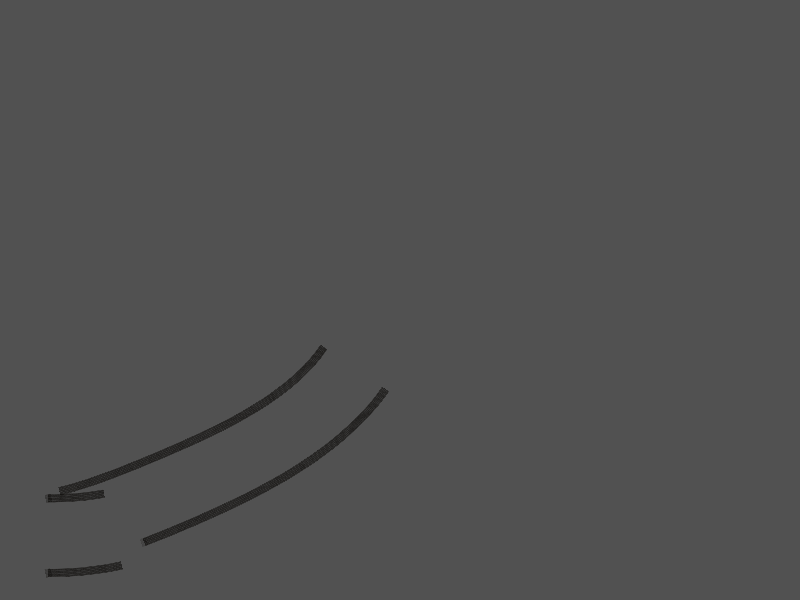
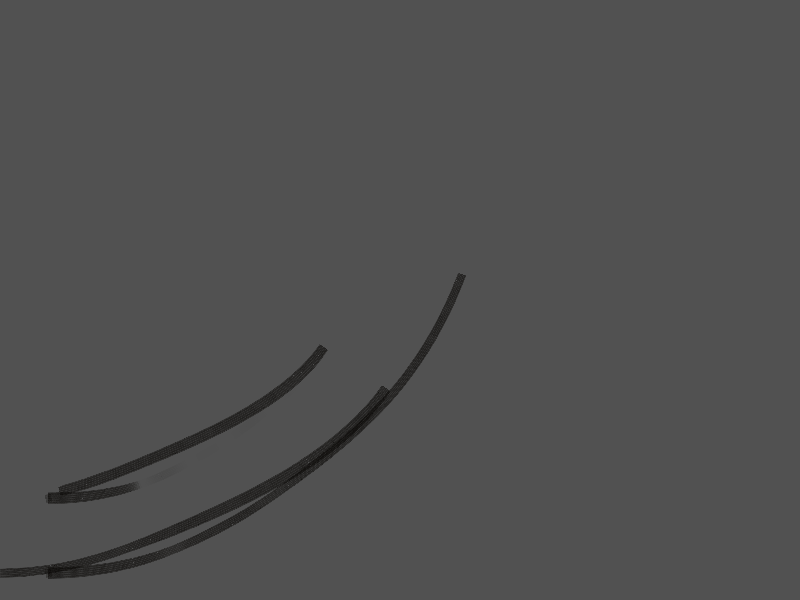
Make laboratory skid deposition continuous and state-dependent

diff --git a/research/scientific-rebuild/fast-vehicle-poc/variable-terrain/laboratory/tracks.js b/research/scientific-rebuild/fast-vehicle-poc/variable-terrain/laboratory/tracks.js
@@ -1,0 +1,75 @@
+// PERFORMANCE laboratory visual deposition; historical observatories remain unchanged.
+import {captureContacts} from '../../../procedural-terrain/src/contact-observation.js';
+export const DEPOSITION=Object.freeze({spacing:.04,width:.18,footprint:.12,minLoad:5,minSlip:.5,minWork:.5,
+ workPerArea:200,maxOpacity:.7,minOpacity:.035,maxJump:1,maxGap:.020001});
+export class Ring {
+ constructor(capacity){if(!(Number.isInteger(capacity)&&capacity>1))throw Error('Invalid history capacity');this.capacity=capacity;this.items=Array(capacity).fill(null);this.cursor=0;this.count=0;}
+ push(item){const i=this.cursor;this.items[i]=item;this.cursor=(i+1)%this.capacity;this.count=Math.min(this.count+1,this.capacity);return i;}
+ *values(){for(let n=0;n<this.count;n++)yield this.items[(this.cursor-this.count+n+this.capacity)%this.capacity];}
+ clear(){this.items.fill(null);this.cursor=this.count=0;}
+}
+const dist=(a,b)=>Math.hypot(a.x-b.x,a.y-b.y),lerp=(a,b,t)=>({x:a.x+(b.x-a.x)*t,y:a.y+(b.y-a.y)*t,z:a.z+(b.z-a.z)*t});
+export function depositionOpacity(work,area,load){return DEPOSITION.maxOpacity*(1-Math.exp(-Math.max(0,work)/(DEPOSITION.workPerArea*area)))*Math.min(1,Math.max(0,load)/250);}
+export class TireObservatory {
+ constructor({capacity=1024,pathCapacity=2048}={}){
+  this.capacity=capacity;this.marks=Array.from({length:4},()=>new Ring(capacity));this.paths=Array.from({length:4},()=>new Ring(pathCapacity));this.center=new Ring(pathCapacity);
+  this.events=new Uint32Array(4*capacity);this.revision=0;this.generation=0;this.latest=[];this.totalWork=[0,0,0,0];this.recent=[0,0,0,0];this.acceptedStages=0;this.acceptedTime=0;
+  this.pending=Array.from({length:4},()=>({}));this.lastTime=null;this.lastCenter=null;this.capture=captureContacts;
+ }
+ dirty(wheel,slot){this.events[this.revision%this.events.length]=wheel*this.capacity+slot;this.revision++;}
+ changesSince(revision){if(revision>this.revision||this.revision-revision>this.events.length)return null;const set=new Set();for(let n=revision;n<this.revision;n++)set.add(this.events[n%this.events.length]);return [...set];}
+ breakContinuity(){this.pending=Array.from({length:4},()=>({}));this.lastTime=null;this.lastCenter=null;this.latest=[];this.recent.fill(0);}
+ clear(){this.marks.forEach(r=>r.clear());this.paths.forEach(r=>r.clear());this.center.clear();this.generation++;this.revision=0;this.events.fill(0);this.pending=Array.from({length:4},()=>({}));this.lastTime=null;this.lastCenter=null;}
+ accept(samples){for(const sample of samples)this.record(sample);}
+ record({start,end,h}){
+  if(!(h>0&&Number.isFinite(h)&&Number.isFinite(end.time)))throw Error('Invalid observational stage');
+  const discontinuity=this.lastTime===null||Math.abs(start.time-this.lastTime)>1e-8||h>DEPOSITION.maxGap||dist(start.center,end.center)>DEPOSITION.maxJump||this.lastCenter&&dist(this.lastCenter,start.center)>1e-5;
+  if(discontinuity){this.pending=Array.from({length:4},()=>({}));this.lastCenter=null;}
+  const oldCenter=this.center.count?this.center.items[(this.center.cursor-1+this.center.capacity)%this.center.capacity]:null;
+  if(!oldCenter||discontinuity||dist(oldCenter,end.center)>=.08)this.center.push({...end.center,time:end.time,breakBefore:discontinuity});
+  this.acceptedStages++;this.acceptedTime+=h;
+  end.wheels.forEach((c,i)=>{
+   const rawWork=c.power*h;this.totalWork[i]+=rawWork;this.recent[i]=this.recent[i]*Math.exp(-h/.1)+Math.max(0,rawWork);
+   this.latest[i]={...c,time:end.time,forceStageOmega:c.omega,totalWork:this.totalWork[i],recentWork:this.recent[i],significantSliding:c.supported&&c.slidingSpeed>=DEPOSITION.minSlip&&this.recent[i]>=DEPOSITION.minWork,
+    warning:c.power< -1e-7?'NEGATIVE CONTACT DISSIPATION':c.supported&&!c.geometryContact?'Axle-load / footprint geometry disagreement':null};
+   const path=this.paths[i],previous=path.count?path.items[(path.cursor-1+path.capacity)%path.capacity]:null;
+   if(!previous||discontinuity||dist(previous,c.position)>=.08)path.push({...c.position,time:end.time,breakBefore:discontinuity});
+   const q=this.pending[i],point=c.position;
+   const qualifies=c.supported&&c.geometryContact&&c.normal>0&&c.slidingSpeed>0&&c.power>=-1e-7;
+   if(!qualifies){this.pending[i]={};return;}
+   if(!q.anchor){q.anchor={...point};q.energy=0;q.episodeWork=0;q.normal=null;q.stamp=null;q.stampEnergy=0;}
+   q.energy+=Math.max(0,rawWork);q.episodeWork+=Math.max(0,rawWork);
+
+   const d=dist(q.anchor,point);
+   if(d>DEPOSITION.maxJump){this.pending[i]={};return;}
+   if(d>=DEPOSITION.spacing){
+    const n=Math.floor(d/DEPOSITION.spacing);if(n>32){this.pending[i]={};return;}
+    const origin=q.anchor,energyPerMeter=q.energy/d,dx=(point.x-origin.x)/d,dy=(point.y-origin.y)/d,normal={x:-dy,y:dx};
+    // Project a loaded rectangular footprint onto the path normal. Lateral
+    // travel sweeps the contact length across the path instead of a fixed ribbon.
+    const lateral=Math.abs(dx*Math.sin(c.heading)-dy*Math.cos(c.heading));
+    const severity=c.slidingSpeed/(1+c.slidingSpeed),loadScale=Math.pow(c.normal/(c.normal+1000),.25);
+    const width=(DEPOSITION.width*Math.sqrt(1-lateral*lateral)+DEPOSITION.footprint*lateral)*(1+.45*severity)*loadScale;
+    for(let j=1;j<=n;j++){
+     const b=lerp(origin,point,j*DEPOSITION.spacing/d),a=q.anchor;
+     const startNormal=q.normal&&q.normal.x*normal.x+q.normal.y*normal.y>.25?q.normal:normal;
+     const work=energyPerMeter*DEPOSITION.spacing,alpha=depositionOpacity(work,width*DEPOSITION.spacing,c.normal);
+     if(alpha>0){const slot=this.marks[i].push({kind:'strip',a:{...a},b:{...b},na:{...startNormal},nb:{...normal},width,alpha,work,load:c.normal,wheel:i});this.dirty(i,slot);}
+     q.anchor=b;q.normal=normal;
+    }
+    q.energy=energyPerMeter*dist(q.anchor,point);q.stamp=null;q.stampEnergy=0;
+   }else if(d<.002){
+    q.stampEnergy+=q.energy;q.energy=0;
+    const alpha=depositionOpacity(q.stampEnergy,DEPOSITION.width*DEPOSITION.footprint,c.normal);
+    if(alpha>0){
+     if(q.stamp===null){const cs=Math.cos(c.heading),sn=Math.sin(c.heading),half=DEPOSITION.footprint/2;
+      q.stamp=this.marks[i].push({kind:'imprint',a:{x:point.x-half*cs,y:point.y-half*sn,z:point.z},b:{x:point.x+half*cs,y:point.y+half*sn,z:point.z},na:{x:-sn,y:cs},nb:{x:-sn,y:cs},alpha,work:q.stampEnergy,load:c.normal,wheel:i});this.dirty(i,q.stamp);
+     }else{const stamp=this.marks[i].items[q.stamp];stamp.work=q.stampEnergy;if(alpha!==stamp.alpha){stamp.alpha=alpha;this.dirty(i,q.stamp);}}
+    }
+   }
+  });
+  this.lastTime=end.time;this.lastCenter={...end.center};
+ }
+ stats(){return {capacityPerWheel:this.capacity,markCount:this.marks.map(r=>r.count),pathCount:this.paths.map(r=>r.count),centerCount:this.center.count,
+  eventBytes:this.events.byteLength,revision:this.revision,generation:this.generation,acceptedStages:this.acceptedStages,acceptedTime:this.acceptedTime,totalSlipWork:[...this.totalWork]};}
+}

diff --git a/research/scientific-rebuild/fast-vehicle-poc/variable-terrain/laboratory/track-view.js b/research/scientific-rebuild/fast-vehicle-poc/variable-terrain/laboratory/track-view.js
@@ -1,5 +1,5 @@
 import * as THREE from '../../../tire-road-observatory-prototype/vendor/three.module.js';
-import {DEPOSITION} from '../../../procedural-terrain/src/tracks.js';
+import {DEPOSITION} from './tracks.js';
 
 // World-anchored marks sample the same analytic terrain as contact. The
 // bounded display mesh interpolates those elevations between its vertices.
@@ -21,7 +21,7 @@ export function createTrackView(scene,terrain,capacity=1024){
  let source,last=-1,generation=-1,bump,originX=0,originY=0,updates=0,uploadedVertices=0;
  function write(slot,record){
   if(!record){positions.fill(0,slot*18,slot*18+18);colors.fill(0,slot*24,slot*24+24);return;}
-  const {a,b,na,nb,alpha}=record,r=DEPOSITION.width/2;
+  const {a,b,na,nb,alpha}=record,r=(record.width??DEPOSITION.width)/2;
   const corners=[[a.x+na.x*r,a.y+na.y*r],[a.x-na.x*r,a.y-na.y*r],[b.x+nb.x*r,b.y+nb.y*r],[b.x-nb.x*r,b.y-nb.y*r]];
   const order=[0,1,2,2,1,3];order.forEach((n,i)=>{const [x,y]=corners[n];positions.set([x-originX,y-originY,terrain.sample(x,y).height+.006],slot*18+i*3);colors.set([.035,.028,.020,alpha],slot*24+i*4);});
  }

diff --git a/research/scientific-rebuild/fast-vehicle-poc/variable-terrain/laboratory/main.js b/research/scientific-rebuild/fast-vehicle-poc/variable-terrain/laboratory/main.js
@@ -5,7 +5,7 @@ import {definition} from '../../vehicles/definitions.js';
 import {bindControls} from './controls.js';import {createView3D} from './view3d.js';
 import {SimulationClock} from '../../../procedural-terrain/src/clock.js';
 import {createInstrument} from '../../../procedural-terrain/src/instruments.js';
-import {TireObservatory} from '../../../tire-road-observatory-prototype/src/tracks.js';
+import {TireObservatory} from './tracks.js';
 import {drawFrictionCircles} from '../../../tire-road-observatory-prototype/src/observatory-panel.js';
 import {setEnvironment} from '../../../procedural-terrain/src/application-vehicle.js';
 const $=id=>document.getElementById(id),clock=new SimulationClock({budgetMs:20,maxSteps:128,maxDebt:Infinity}),observatory=new TireObservatory();

diff --git a/research/scientific-rebuild/fast-vehicle-poc/variable-terrain/laboratory/skid-marks-validation.md b/research/scientific-rebuild/fast-vehicle-poc/variable-terrain/laboratory/skid-marks-validation.md
@@ -26,3 +26,9 @@ The probe explicitly asserts native WebGPU backend selection and reads the offsc
 These captures used headless Chromium and SwiftShader offscreen readback, not hardware presentation on the RTX 5090. Full interactive driving, actual tire-smoke overlap, terrain-contact visual quality under varying lighting, and performance on that GPU remain unverified. The diagnostic captures do not establish that the results closely match the supplied photographs. No claims about 240 Hz or GPU frame-time regression are supported by this environment.
 
 The existing one-mesh, dirty-range update and 4,096-primitive bound remain. A 32-bit index buffer uses 49,152 more bytes than a 16-bit buffer in WebGL at the default capacity; WebGPU already promoted the buffer to 32-bit and previously retained both arrays. The shader does additional fragment calculations, whose hardware cost has not been measured. Ground offset, sampled terrain geometry, 20 m visibility clipping and fixed history capacity remain potential visual limitations.
+
+## Continuous deposition follow-up
+
+The PERFORMANCE laboratory now uses its own `tracks.js`, preserving historical observatories. Supported geometrically valid contacts with positive slip and positive dissipated work can produce arbitrarily faint deposits; the former minimum slip, episode-work and opacity cutoffs no longer discard them. Zero work still produces no marks. Moving footprints project a rectangular contact patch across the actual path using wheel heading, with bounded slip-speed expansion and load scaling. This is a visual approximation, not an additional traction law. Stationary imprints retain their wheel-heading orientation. The history and GPU buffers remain bounded.
+
+Two focused tests verify monotonically increasing opacity below the former thresholds, zero-work exclusion, and heading/slip-dependent width. The real-physics WebGPU scenarios were rerun: all four rendered visible marks and preserved state. Updated near/far images accompany the results. Software-rendering and full-scene validation limits above still apply. A projected footprint is not a complete deformable contact-patch model; lateral tread dragging and start/end intensity interpolation remain approximations.
